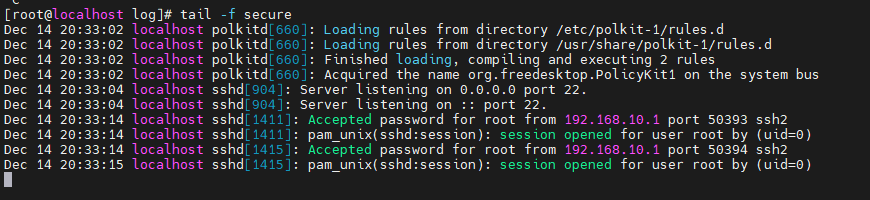
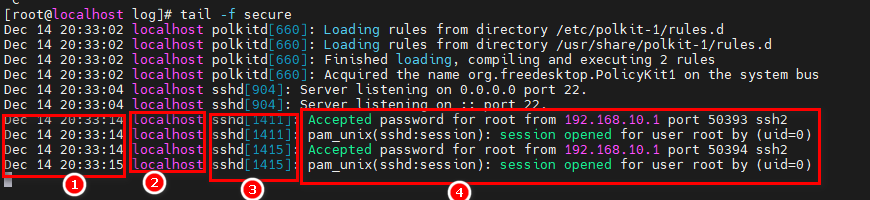
update

Changed region(s): [[0.0, 0.54, 0.9621, 1.0]]

diff --git a/thuctap/linux-profession/11.varlog.md b/thuctap/linux-profession/11.varlog.md
@@ -38,6 +38,10 @@
   - `messages-20231213` :file log chứa nhật ký của ngày mà nó ghi trên tên file
 
     ![Alt](/thuctap/anh/Screenshot_556.png)
+    - 1: thời gian sinh ra log
+    - 2: máy sinh ra log 
+    - 3: tiến trình sinh ra log
+    - 4: thông tin của log đó
 
 ## 2.2 `/var/log/secure`
 - File log này dùng để làm gì
@@ -49,7 +53,11 @@
   - secure : chứa các log mà hệ thống có thể ghi nhận trong toàn bộ thời gian mà hệ thống cho phép  
   - secure-20231213 : chứa các log mà thống ghi nhận của ngày mà nó ghi trên tên file
 
-    ![Alt](/thuctap/anh/Screenshot_557.png)
+  ![Alt](/thuctap/anh/Screenshot_557.png)
+    - 1: thời gian sinh ra log
+    - 2: máy sinh ra log 
+    - 3: tiến trình sinh ra log
+    - 4: thông tin của log đó 
 ## 2.3 `/var/log/boot.log`
 - File log này dùng để làm gì
   - lưu trữ tất cả thông tin liên quan đến khởi động
@@ -67,7 +75,10 @@
   - dùng để phát hiện sự cố lỗi phần cứng
   - cung cấp thông tin về các sự kiện quan trọng như khởi động hệ thống, cấu hình phần cứng, lỗi hệ thống, và các sự kiện khác liên quan đến kernel
   ![Alt](/thuctap/anh/Screenshot_558.png)
-
+    - 1: thời gian sinh ra log
+    - 2: máy sinh ra log 
+    - 3: tiến trình sinh ra log
+    - 4: thông tin của log đó 
 ## 2.5 `/var/log/cron`
 - File log này dùng để làm gì
   - Nơi lưu trữ tất cả các thông tin liên quan đến crond 
@@ -77,6 +88,10 @@
   - cron(crontab):dùng để chạy các tác vụ ngầm theo một lịch trình cụ thể thường dùng sao lưu hay đồng bộ hóa
   
     ![Alt](/thuctap/anh/Screenshot_559.png)
+    - 1: thời gian sinh ra log
+    - 2: máy sinh ra log 
+    - 3: tiến trình sinh ra log
+    - 4: thông tin của log đó     
 
 ## 2.6 `/var/log/yum.log`
 - chứa thông tin các gói được ghi lại khi cài đặt bằng yum
@@ -91,12 +106,21 @@
   - Theo dõi nguồn gốc của một email
 
     ![Alt](/thuctap/anh/Screenshot_560.png)
+    - 1: thời gian sinh ra log
+    - 2: máy sinh ra log 
+    - 3: tiến trình sinh ra log
+    - 4: thông tin của log đó     
 
 ## 2.8 `/var/log/btmp`
 - chứa thông tin về các thông tin đăng nhập thất bại
 - Sử dụng lệnh `last` để xem file btmp
 
     ![Alt](/thuctap/anh/Screenshot_561.png)
+    - 1 : tên người dùng đăng nhập
+    - 2:Thiết bị họ đăng nhập. Mục thiết bị :0 có nghĩa là đăng nhập trên chính máy tính Linux
+    - 3: IP của máy đăng nhập
+    - 4: Thời gian đăng nhập 
+    - 5: thời gian phiên làm việc
 
 ## 2.9 `/var/log/wtmp`
 - Chứa các bản ghi đăng nhập
@@ -105,6 +129,9 @@
 
     ![Alt](/thuctap/anh/Screenshot_562.png)
     ![Alt](/thuctap/anh/Screenshot_563.png)
+    - 1: Tên đăng nhập
+    - 2:Loại kết nối (tty là kết nối trực tiếp với máy tính như bàn phím/chuột còn pts là kết nối ssh hoặc telnet)
+    - 3: thời gian sinh ra log ,nếu là pts thì sẽ đi kèm địa chỉ ip của máy đăng nhập
 
 ## 2.10 `var/log/grubby`
 - lưu trữ thông tin về cấu hình khởi động của hệ thống bằng Grub

diff --git a/thuctap/linux-profession/07.log-processing.md b/thuctap/linux-profession/07.log-processing.md
@@ -16,14 +16,15 @@
 
 ## 1.2 Sử dụng journalctl để đọc và phân tích Systemd Logs
 - Câu lệnh journald cơ bản:
-    ```
-    journalctl
-    ```
-    ![Alt](/thuctap/anh/Screenshot_526.png)
-      - cột 1 : show ra thời gian của ghi chép nhập ký
-      - cột 2: tên user thực hiện tạo tạo ra nhật ký
-      - cột 3: tiến trình sinh ra log
-      - cột 4: miêu tả thông tin lưu lại trong nhật ký
+  ```
+  journalctl
+  ```
+  ![Alt](/thuctap/anh/Screenshot_526.png)
+
+    - cột 1 : show ra thời gian của ghi chép nhập ký
+    - cột 2: tên user thực hiện tạo tạo ra nhật ký
+    - cột 3: tiến trình sinh ra log
+    - cột 4: miêu tả thông tin lưu lại trong nhật ký
 
 
 - Chỉ xem errors, warnings, vv
